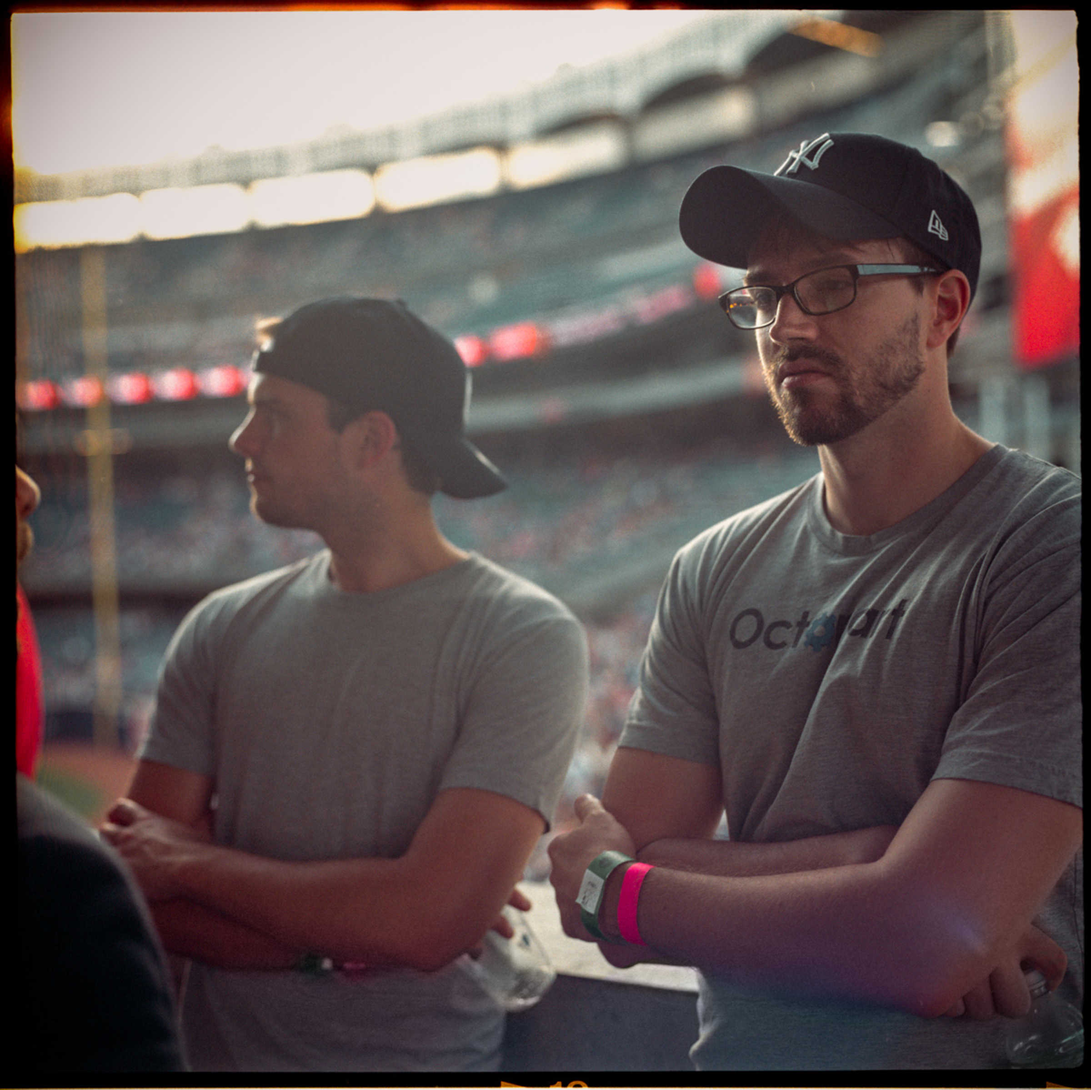
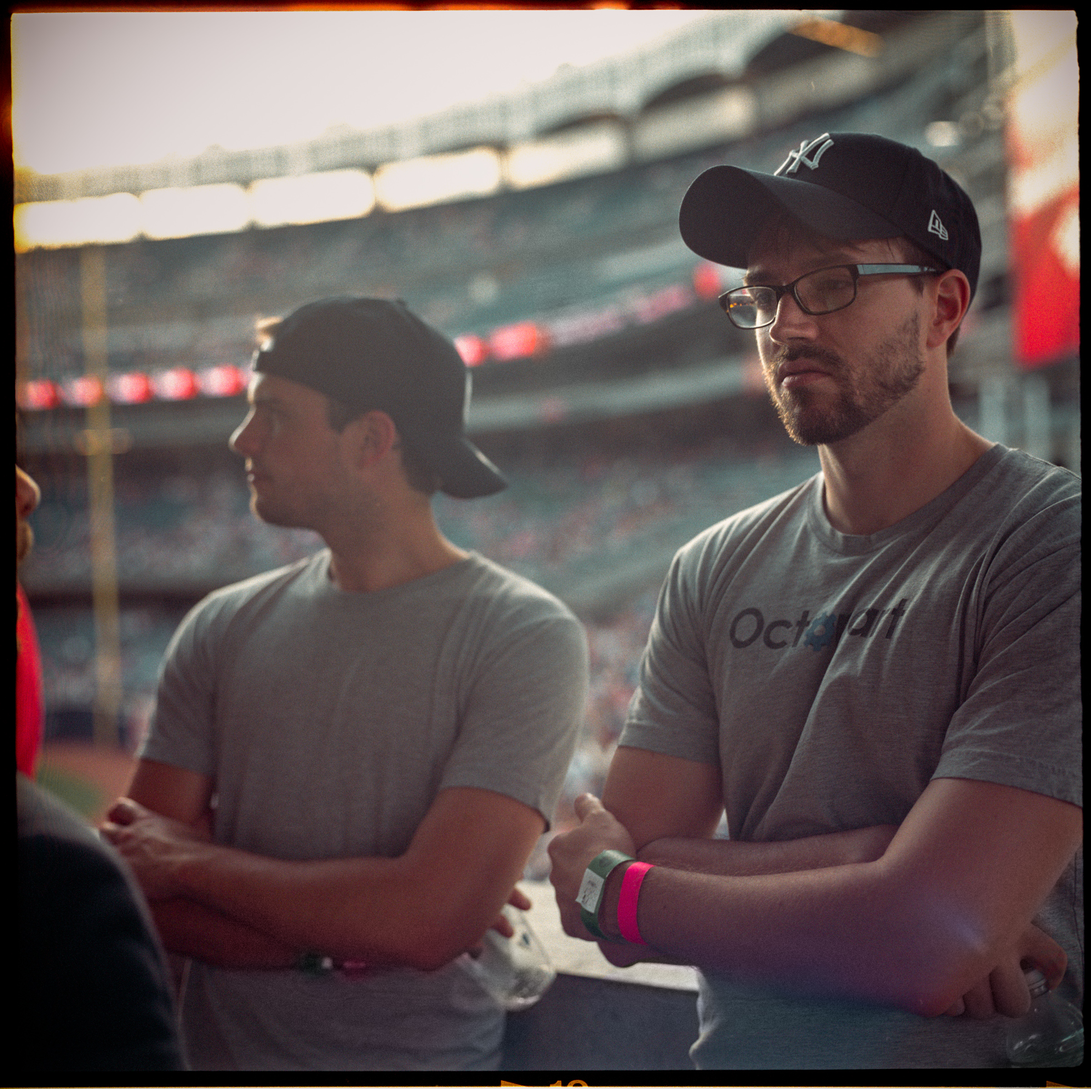
don't resize images for new draft

diff --git a/emptysquare/packages/blog-posts/lektor_blog_posts.py b/emptysquare/packages/blog-posts/lektor_blog_posts.py
@@ -2,6 +2,7 @@
 
 import datetime
 import os
+import shutil
 import webbrowser
 from collections import defaultdict, OrderedDict
 
@@ -185,9 +186,7 @@ def blog_new(ctx, what, where, images):
                 image_filenames.append(filename)
                 source_path = os.path.join(images, filename)
                 target_path = os.path.join(path, filename)
-                subprocess.check_call(
-                    ['convert', source_path, '-resize', '2400',
-                     '-quality', '50', target_path])
+                shutil.copy(source_path, target_path)
 
             images_markdown = '\n\n***\n\n'.join(
                 "![](%s)" % fn for fn in image_filenames)
